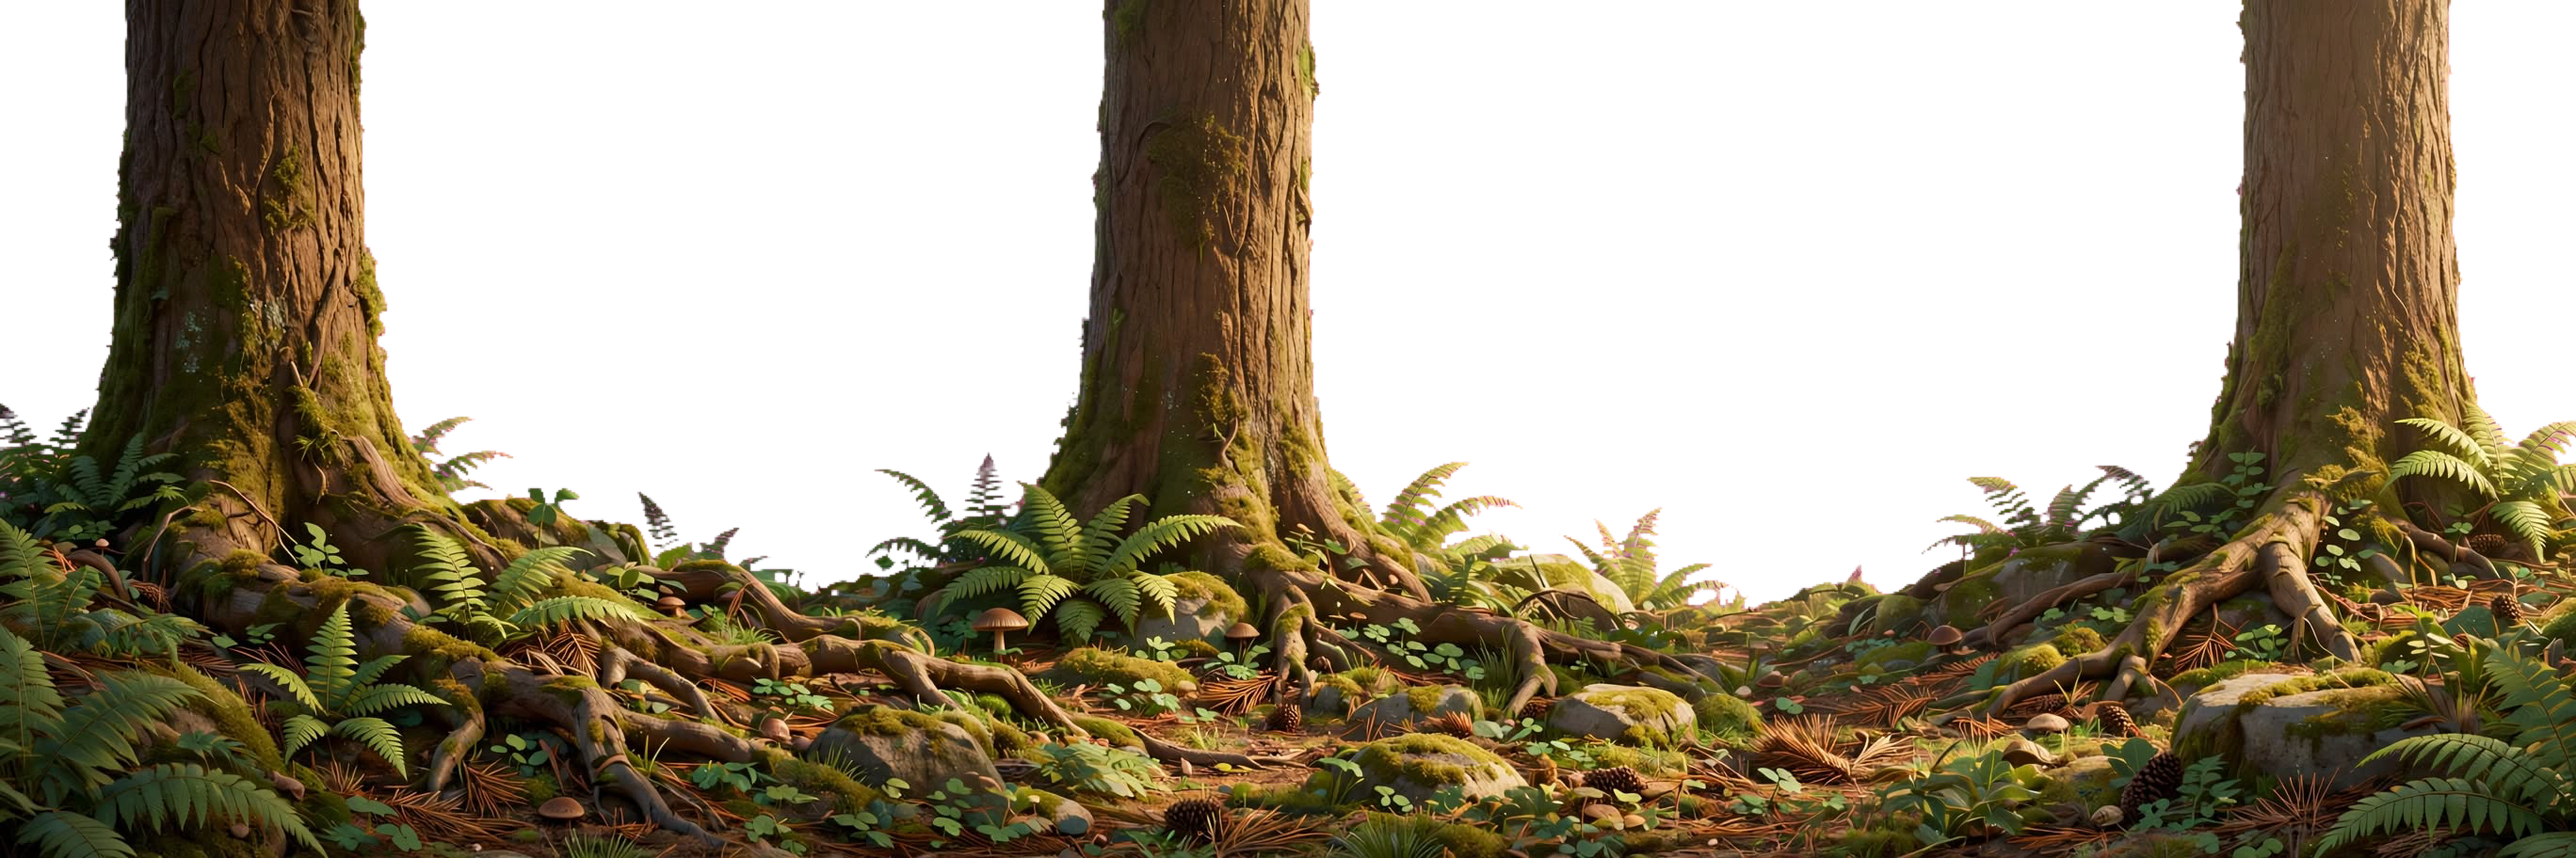
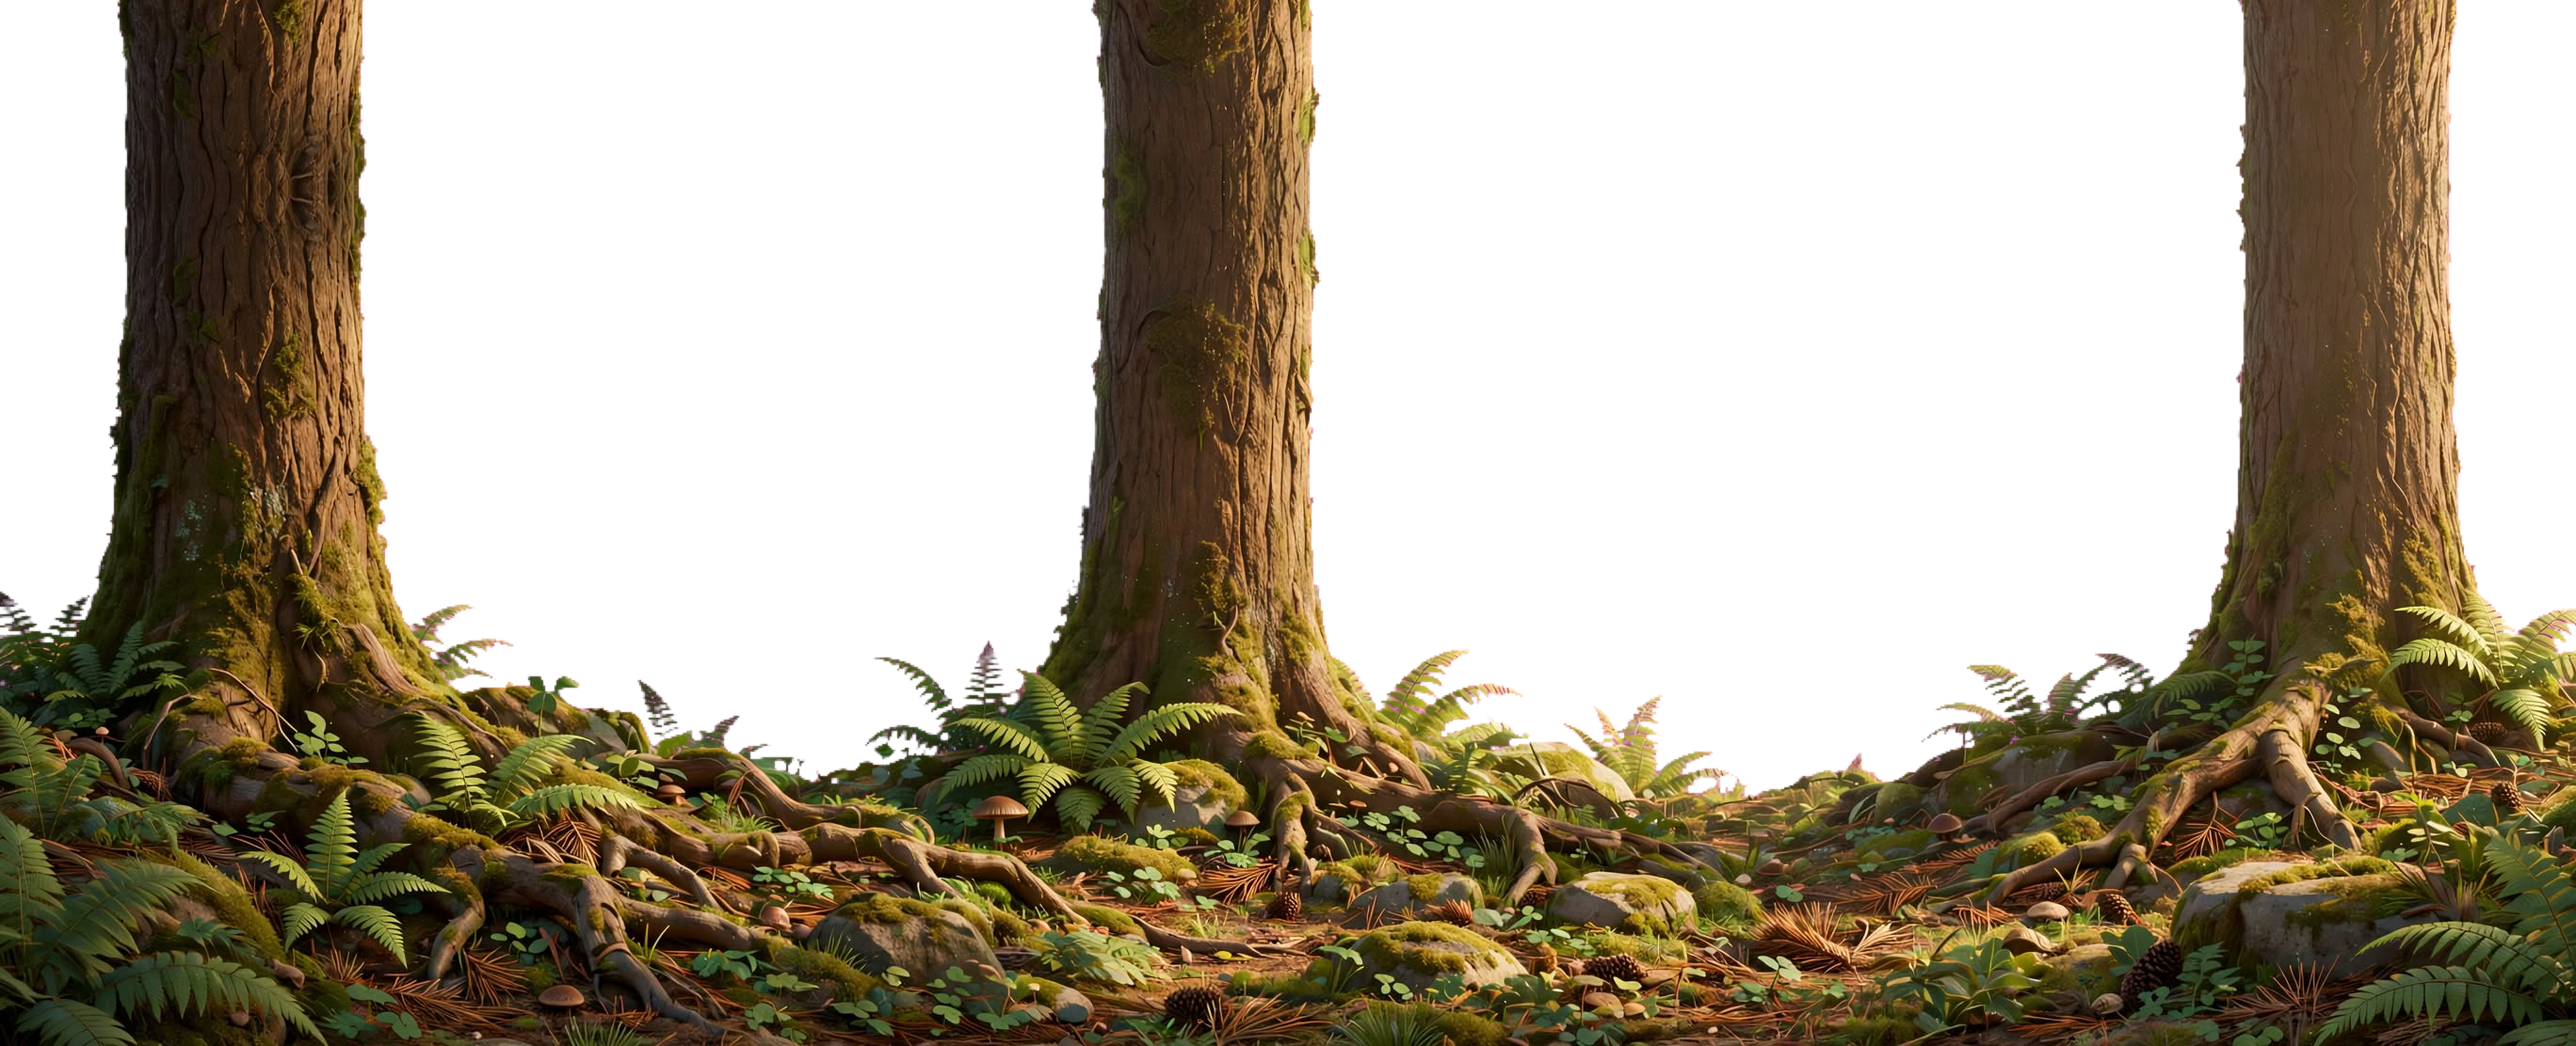
2-1 near trees: trunks extended upward (mirrored bark) and the layer drawn taller at the same scale, so they run off the top of the screen
Claude-Session: https://claude.ai/code/session_01Rgd9t2PAZ42Xb95k8asyCL

diff --git a/game/main.js b/game/main.js
@@ -47,7 +47,7 @@ const TUNE = {
   BG_MID_HEIGHT: 300,     // how tall each layer is drawn on screen (pixels)
   BG_NEAR_HEIGHT: 150,
   BG_FAR_DROP: { w1: -150, w2: 40, w1_2: 0, w1_3: 0, w1_4: 0, w2_1: 0, w2_2: 0, w2_3: 0, w2_4: 0 },   // per world: push the far layer down (positive) or up (negative)
-  BG_LAYER_HEIGHTS: { w1_2: { mid: 380, near: 170 }, w1_3: { mid: 400, near: 170 }, w1_4: { mid: 380, near: 170 }, w2_1: { mid: 420, near: 560 }, w2_2: { mid: 400, near: 190 }, w2_3: { mid: 440, near: 210 }, w2_4: { mid: 440, near: 230 } },   // per world: mid / near heights on screen, if not BG_MID_HEIGHT / BG_NEAR_HEIGHT
+  BG_LAYER_HEIGHTS: { w1_2: { mid: 380, near: 170 }, w1_3: { mid: 400, near: 170 }, w1_4: { mid: 380, near: 170 }, w2_1: { mid: 420, near: 683 }, w2_2: { mid: 400, near: 190 }, w2_3: { mid: 440, near: 210 }, w2_4: { mid: 440, near: 230 } },   // per world: mid / near heights on screen, if not BG_MID_HEIGHT / BG_NEAR_HEIGHT
   BG_MIRROR: { w1_2: true, w1_3: true, w1_4: true, w2_1: true, w2_2: true, w2_3: true, w2_4: true },   // per world: every other copy of the mid/near layers is flipped, so pictures whose edges don't match still join cleanly
   HORNET_RANGE: 300,      // how close before a hornet dives at David
   HORNET_DIVE: 420,       // dive speed
